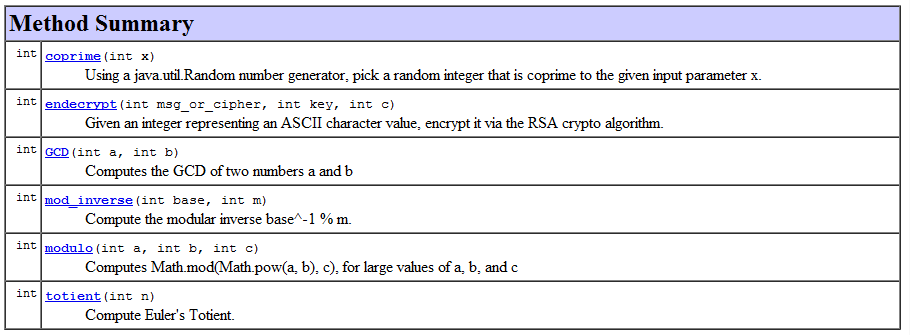
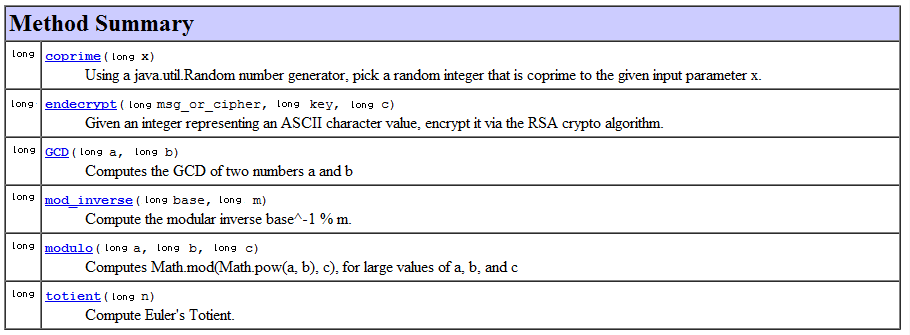
Syntax, also updating javadoc to reflect that ints were changed to longs in the library

diff --git a/files/rsamath/doc/cs4hs11/rsalibrary/RSAMath.html b/files/rsamath/doc/cs4hs11/rsalibrary/RSAMath.html
@@ -130,8 +130,8 @@ java.lang.Object
 </TR>
 <TR BGCOLOR="white" CLASS="TableRowColor">
 <TD ALIGN="right" VALIGN="top" WIDTH="1%"><FONT SIZE="-1">
-<CODE>&nbsp;int</CODE></FONT></TD>
-<TD><CODE><B><A HREF="../../cs4hs11/rsalibrary/RSAMath.html#coprime(int)">coprime</A></B>(int&nbsp;x)</CODE>
+<CODE>&nbsp;long</CODE></FONT></TD>
+<TD><CODE><B><A HREF="../../cs4hs11/rsalibrary/RSAMath.html#coprime(long)">coprime</A></B>(long&nbsp;x)</CODE>
 
 <BR>
 &nbsp;&nbsp;&nbsp;&nbsp;&nbsp;&nbsp;&nbsp;&nbsp;&nbsp;&nbsp;Using a java.util.Random number generator, pick a random integer
@@ -139,10 +139,10 @@ java.lang.Object
 </TR>
 <TR BGCOLOR="white" CLASS="TableRowColor">
 <TD ALIGN="right" VALIGN="top" WIDTH="1%"><FONT SIZE="-1">
-<CODE>&nbsp;int</CODE></FONT></TD>
-<TD><CODE><B><A HREF="../../cs4hs11/rsalibrary/RSAMath.html#endecrypt(int, int, int)">endecrypt</A></B>(int&nbsp;msg_or_cipher,
-          int&nbsp;key,
-          int&nbsp;c)</CODE>
+<CODE>&nbsp;long</CODE></FONT></TD>
+<TD><CODE><B><A HREF="../../cs4hs11/rsalibrary/RSAMath.html#endecrypt(long(long(long)">endecrypt</A></B>(long&nbsp;msg_or_cipher,
+          long&nbsp;key,
+          long&nbsp;c)</CODE>
 
 <BR>
 &nbsp;&nbsp;&nbsp;&nbsp;&nbsp;&nbsp;&nbsp;&nbsp;&nbsp;&nbsp;Given an integer representing an ASCII character value, encrypt it 
@@ -150,36 +150,36 @@ java.lang.Object
 </TR>
 <TR BGCOLOR="white" CLASS="TableRowColor">
 <TD ALIGN="right" VALIGN="top" WIDTH="1%"><FONT SIZE="-1">
-<CODE>&nbsp;int</CODE></FONT></TD>
-<TD><CODE><B><A HREF="../../cs4hs11/rsalibrary/RSAMath.html#GCD(int, int)">GCD</A></B>(int&nbsp;a,
-    int&nbsp;b)</CODE>
+<CODE>&nbsp;long</CODE></FONT></TD>
+<TD><CODE><B><A HREF="../../cs4hs11/rsalibrary/RSAMath.html#GCD(long(long)">GCD</A></B>(long&nbsp;a,
+    long&nbsp;b)</CODE>
 
 <BR>
 &nbsp;&nbsp;&nbsp;&nbsp;&nbsp;&nbsp;&nbsp;&nbsp;&nbsp;&nbsp;Computes the GCD of two numbers a and b</TD>
 </TR>
 <TR BGCOLOR="white" CLASS="TableRowColor">
 <TD ALIGN="right" VALIGN="top" WIDTH="1%"><FONT SIZE="-1">
-<CODE>&nbsp;int</CODE></FONT></TD>
-<TD><CODE><B><A HREF="../../cs4hs11/rsalibrary/RSAMath.html#mod_inverse(int, int)">mod_inverse</A></B>(int&nbsp;base,
-            int&nbsp;m)</CODE>
+<CODE>&nbsp;long</CODE></FONT></TD>
+<TD><CODE><B><A HREF="../../cs4hs11/rsalibrary/RSAMath.html#mod_inverse(long(long)">mod_inverse</A></B>(long&nbsp;base,
+            long&nbsp;m)</CODE>
 
 <BR>
 &nbsp;&nbsp;&nbsp;&nbsp;&nbsp;&nbsp;&nbsp;&nbsp;&nbsp;&nbsp;Compute the modular inverse base^-1 % m.</TD>
 </TR>
 <TR BGCOLOR="white" CLASS="TableRowColor">
 <TD ALIGN="right" VALIGN="top" WIDTH="1%"><FONT SIZE="-1">
-<CODE>&nbsp;int</CODE></FONT></TD>
-<TD><CODE><B><A HREF="../../cs4hs11/rsalibrary/RSAMath.html#modulo(int, int, int)">modulo</A></B>(int&nbsp;a,
-       int&nbsp;b,
-       int&nbsp;c)</CODE>
+<CODE>&nbsp;long</CODE></FONT></TD>
+<TD><CODE><B><A HREF="../../cs4hs11/rsalibrary/RSAMath.html#modulo(long(long(long)">modulo</A></B>(long&nbsp;a,
+       long&nbsp;b,
+       long&nbsp;c)</CODE>
 
 <BR>
 &nbsp;&nbsp;&nbsp;&nbsp;&nbsp;&nbsp;&nbsp;&nbsp;&nbsp;&nbsp;Computes Math.mod(Math.pow(a, b), c), for large values of a, b, and c</TD>
 </TR>
 <TR BGCOLOR="white" CLASS="TableRowColor">
 <TD ALIGN="right" VALIGN="top" WIDTH="1%"><FONT SIZE="-1">
-<CODE>&nbsp;int</CODE></FONT></TD>
-<TD><CODE><B><A HREF="../../cs4hs11/rsalibrary/RSAMath.html#totient(int)">totient</A></B>(int&nbsp;n)</CODE>
+<CODE>&nbsp;long</CODE></FONT></TD>
+<TD><CODE><B><A HREF="../../cs4hs11/rsalibrary/RSAMath.html#totient(long)">totient</A></B>(long&nbsp;n)</CODE>
 
 <BR>
 &nbsp;&nbsp;&nbsp;&nbsp;&nbsp;&nbsp;&nbsp;&nbsp;&nbsp;&nbsp;Compute Euler's Totient.</TD>
@@ -229,11 +229,11 @@ public <B>RSAMath</B>()</PRE>
 </TR>
 </TABLE>
 
-<A NAME="GCD(int, int)"><!-- --></A><H3>
+<A NAME="GCD(long(long)"><!-- --></A><H3>
 GCD</H3>
 <PRE>
-public int <B>GCD</B>(int&nbsp;a,
-               int&nbsp;b)</PRE>
+public long <B>GCD</B>(long&nbsp;a,
+               long&nbsp;b)</PRE>
 <DL>
 <DD>Computes the GCD of two numbers a and b
 <P>
@@ -244,12 +244,12 @@ public int <B>GCD</B>(int&nbsp;a,
 </DL>
 <HR>
 
-<A NAME="modulo(int, int, int)"><!-- --></A><H3>
+<A NAME="modulo(long(long(long)"><!-- --></A><H3>
 modulo</H3>
 <PRE>
-public int <B>modulo</B>(int&nbsp;a,
-                  int&nbsp;b,
-                  int&nbsp;c)</PRE>
+public long <B>modulo</B>(long&nbsp;a,
+                  long&nbsp;b,
+                  long&nbsp;c)</PRE>
 <DL>
 <DD>Computes Math.mod(Math.pow(a, b), c), for large values of a, b, and c
 <P>
@@ -260,10 +260,10 @@ public int <B>modulo</B>(int&nbsp;a,
 </DL>
 <HR>
 
-<A NAME="totient(int)"><!-- --></A><H3>
+<A NAME="totient(long)"><!-- --></A><H3>
 totient</H3>
 <PRE>
-public int <B>totient</B>(int&nbsp;n)</PRE>
+public long <B>totient</B>(long&nbsp;n)</PRE>
 <DL>
 <DD>Compute Euler's Totient.  From Wikipedia: The totient of a positive integer n
  is defined to be the number of positive integers less than or equal to n that
@@ -281,10 +281,10 @@ public int <B>totient</B>(int&nbsp;n)</PRE>
 </DL>
 <HR>
 
-<A NAME="coprime(int)"><!-- --></A><H3>
+<A NAME="coprime(long)"><!-- --></A><H3>
 coprime</H3>
 <PRE>
-public int <B>coprime</B>(int&nbsp;x)</PRE>
+public long <B>coprime</B>(long&nbsp;x)</PRE>
 <DL>
 <DD>Using a java.util.Random number generator, pick a random integer
  that is coprime to the given input parameter x.
@@ -296,11 +296,11 @@ public int <B>coprime</B>(int&nbsp;x)</PRE>
 </DL>
 <HR>
 
-<A NAME="mod_inverse(int, int)"><!-- --></A><H3>
+<A NAME="mod_inverse(long(long)"><!-- --></A><H3>
 mod_inverse</H3>
 <PRE>
-public int <B>mod_inverse</B>(int&nbsp;base,
-                       int&nbsp;m)</PRE>
+public long <B>mod_inverse</B>(long&nbsp;base,
+                       long&nbsp;m)</PRE>
 <DL>
 <DD>Compute the modular inverse base^-1 % m.  Note this is not the arithmetic inverse (1/base) mod m.
 <P>
@@ -311,12 +311,12 @@ public int <B>mod_inverse</B>(int&nbsp;base,
 </DL>
 <HR>
 
-<A NAME="endecrypt(int, int, int)"><!-- --></A><H3>
+<A NAME="endecrypt(long(long(long)"><!-- --></A><H3>
 endecrypt</H3>
 <PRE>
-public int <B>endecrypt</B>(int&nbsp;msg_or_cipher,
-                     int&nbsp;key,
-                     int&nbsp;c)</PRE>
+public long <B>endecrypt</B>(long&nbsp;msg_or_cipher,
+                     long&nbsp;key,
+                     long&nbsp;c)</PRE>
 <DL>
 <DD>Given an integer representing an ASCII character value, encrypt it 
  via the RSA crypto algorithm.  Or, given an integer representing an 

diff --git a/_pages/Assignments/Iteration/asmt-minicrypto.md b/_pages/Assignments/Iteration/asmt-minicrypto.md
@@ -63,9 +63,9 @@ Some interesting relationships in mathematics (called [Fermat's Little Theorem](
 
 For now, we can look up <span>\\(\phi(881)\\)</span> on a website like [http://primefan.tripod.com/TotientAnswers1000.html](http://primefan.tripod.com/TotientAnswers1000.html), but it turns out that 881 is prime, meaning that no numbers greater than 1 other than itself divide into it.  So this means <span>\\(\phi(881) = (881 - 1) = 880\\)</span> (the other 880 numbers).  So <span>\\(588^{-1} = 588^{880-1} (mod \; 881) = 588^{879} (mod \; 881) = 588^{879} (mod \; 881)\\)</span>.  That's <span>\\(1.917e+2434 (mod \; 881)\\)</span>, or 442.  See how much easier that makes the problem above to solve?  Yet, it's harder for those that don't know the base number r and the modular inverse q, so we keep those secret.  Instead, we give our partner(s) enough information to generate encrypted values to us that we can decrypt using this approach.
 
-To generate RSA keys, first select two prime numbers A (say, 47) and B (say, 71).  Normally, A and B should be very large -- a small map was easy to break, after all!  Multiply them together and call that <span>\\(C = A*B = 47*71 = 3337\\)</span>.  
+To generate RSA keys, first select two prime numbers A (say, 47) and B (say, 71).  Normally, A and B should be very large -- a small map was easy to break, after all!  Multiply them together and call that <span>\\(C = AB = 47 \times 71 = 3337\\)</span>.  
 
-Now compute <span>\\(\phi(C) = \phi(AB) = (A-1)(B-1) = 46 * 70 = 3220\\)</span>, and call this number (the totient of C) M.  Pick an encryption key that is coprime to <span>\\(M = 3220\\)</span>.  There are mathematical ways of doing this (the [Extended Euclidean GCD Algorithm](https://en.wikipedia.org/wiki/Extended_Euclidean_algorithm)), but let's just pick one since we're using small enough numbers -- how about 79.   Take my word for now that it is easy to do, especially with a computer.  Call this <span>\\(E = 79\\)</span>.
+Now compute <span>\\(\phi(C) = \phi(AB) = (A-1)(B-1) = 46 \times 70 = 3220\\)</span>, and call this number (the totient of C) M.  Pick an encryption key that is coprime to <span>\\(M = 3220\\)</span>.  There are mathematical ways of doing this (the [Extended Euclidean GCD Algorithm](https://en.wikipedia.org/wiki/Extended_Euclidean_algorithm)), but let's just pick one since we're using small enough numbers -- how about 79.   Take my word for now that it is easy to do, especially with a computer.  Call this <span>\\(E = 79\\)</span>.
 
 The decryption key is the modular inverse of the encryption key <span>\\(E  (mod \; 3220)\\)</span>.  Call this <span>\\(d = 79^{-1} = 79^{\phi(3220)-1} (mod \; 3220)\\)</span>.  Recall how to do this (keep in mind that 79 is coprime to M = 3220 -- what a great idea, because we can use our formula!).  So <span>\\(r^{-1} = r^{\phi(M) -1} mod M\\)</span> works.  According to [http://www25.brinkster.com/denshade/totient.html](http://www25.brinkster.com/denshade/totient.html), <span>\\(\phi(M) = 1056\\)</span>, but we could compute it.  So now we have <span>\\(79^{-1} = 79^{1056 - 1} (mod \; 3220) = 791055 (mod \; 3220) = 1019\\)</span>.
 
